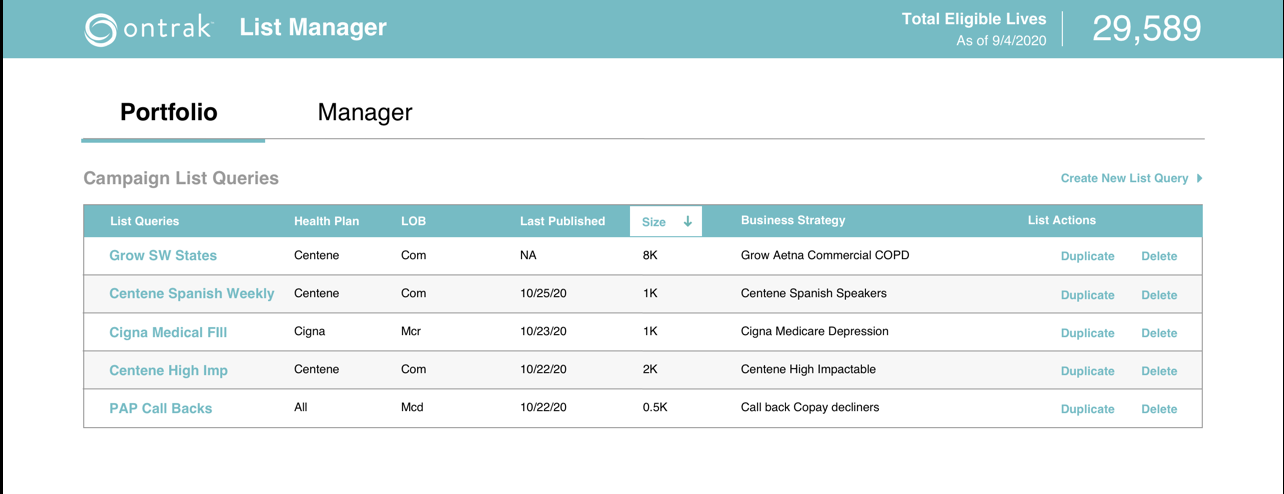
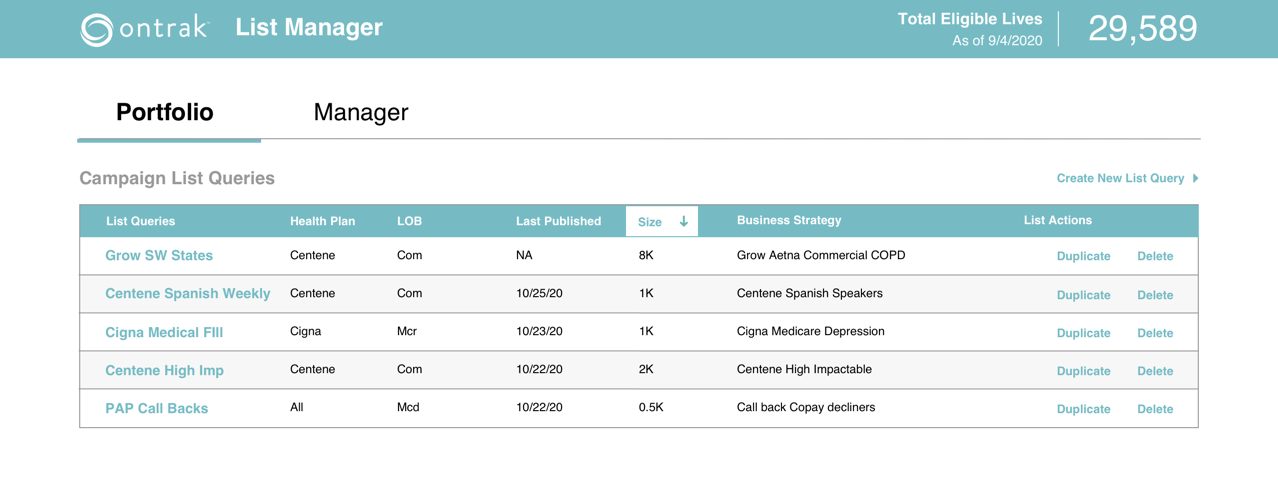
Ontrak full rebuild (GE Digital info architecture) + multi-image hero support
- Ontrak one-pager rebuilt: hero headline now a genuine hook distinct from
  both the landing card and the body copy, scene-setter fixes the List
  Manager/Care Team Portal timeline (no tool existed yet, just manual
  spreadsheets; Care Team Portal was the actual assignment, List Manager
  grew alongside it as a side project), "Align, Build, Trust" section with
  three body paragraphs and three labeled outcomes (ADOPTION, REACH,
  INVESTMENT), telehealth portal beat dropped from this page
- OnePager: heroImage now accepts a single image or an array; all hero
  images render at a fixed height with natural (uncropped) width instead
  of a forced 16:9 crop
- GE Digital: swapped in workshop-wide.png (same height, wider than 16:9,
  no crop)
- Ontrak: swapped in re-cropped Value Stream Map / LM Portfolio images,
  added Ontrak Detail as a second hero image alongside Ontrak Sketch

diff --git a/work/ontrak/main.tsx b/work/ontrak/main.tsx
@@ -4,36 +4,50 @@ import '../../src/index.css'
 import { OnePager, type OnePagerContent } from '../../src/components/OnePager'
 
 // Ontrak Health one-pager content. Source facts: Team Inbox/
-// Milmoe_WorkSample_Ontrak-Health.md. Consolidated to a single skim-to-contact
-// section per the 2026-08-01 rework: List Manager as the lead hook point, the
-// telehealth portal folded in as a third, supporting hook point rather than
-// its own section. Full original two-section copy is archived in
-// Andrew Outbox/WorkSample_Ontrak-Health_full-text.txt.
+// Milmoe_WorkSample_Ontrak-Health.md. Rebuilt 2026-08-06 to match GE
+// Digital's information architecture: hero headline distinct from the
+// landing card hook, scene-setter sharing the first section's background
+// (sceneSetterPlacement: 'section') rather than its own row, one "THE WORK"
+// section, three labeled proofPoints. The HIPAA telehealth portal beat is
+// dropped from this page per Andrew's call — it stays fully documented in
+// the working doc for later reuse, just not part of this narrative anymore.
 //
 // Public-facing name is "List Manager" only (2026-08-06, Andrew) — the tool's
 // original pre-rename name, Campaign Builder, stays in the working doc as
 // history but should never appear on the live site.
+//
+// The Care Team Portal is named in the scene-setter (2026-08-06, Andrew) as
+// the reason he was actually brought on — List Manager grew alongside it as
+// a side project. This reopens the earlier 2026-07-30 call to hold Care
+// Team Portal out of this page entirely; it's still just a passing mention
+// here, not a developed section — the working doc has the full initiative.
 const content: OnePagerContent = {
   industry: 'HEALTHCARE',
   client: 'Ontrak Health',
   role: 'Principal UX Product Designer',
   headline:
-    "Ontrak's Member Outreach team was stuck waiting on an overloaded AI/ML team for every customer query. I designed the MVP that fixed it, a tool the AI/ML team later adopted to run its own campaigns.",
+    "Ontrak's growth was hampered by opaque, manual processes splintered across siloed teams. Called in to diagram it, sparking the tool that ended up running the business.",
   sceneSetter:
-    "Ontrak's Member Outreach team was stuck waiting on an overloaded AI/ML team for every data query, and every delay cost conversions. Asked to work directly with the CTO to design a fix.",
-  heroImage: `${import.meta.env.BASE_URL}ontrak-sketch.png`,
+    "List Manager didn't exist yet, just manual spreadsheets bridging claims data to outreach campaigns, with no shared way for AI/ML, Outreach, and Clinical to see the process end to end. Brought in to align stakeholders on the Care Team Portal, and List Manager grew alongside it as a side project to close that gap.",
+  sceneSetterEmphasis: 'List Manager',
+  sceneSetterPlacement: 'section',
+  heroImage: [
+    `${import.meta.env.BASE_URL}ontrak-sketch.png`,
+    `${import.meta.env.BASE_URL}ontrak-detail.png`,
+  ],
   sections: [
     {
       eyebrow: 'THE WORK',
-      title: 'List Manager',
+      title: 'Align, Build, Trust',
       body: [
-        'Worked directly with the CTO and a two-person eng team, in spare time over about a year, to ship a lean MVP from existing components, ready for an upcoming client sales call.',
-        'Stakeholder feedback reshaped it into "List Manager," trading a map view for system responsiveness once real usage patterns emerged.',
-        'Separately, when I joined the company, we paused the design system to ship a HIPAA-compliant, white-labeled telehealth portal in 60 days, under investor pressure, as competitors were already live.',
+        'Served as liaison between the AI/ML and Clinical teams, sketching the claims-to-campaign process on a whiteboard and turning it into a shared diagram the CTO liked enough to ask him to share with the entire organization.',
+        'Over about a year of spare time, on a team of one designer and two engineers, that same clarity became List Manager, a lean MVP built from existing components and shipped in time for a client sales call.',
+        "The CTO's new Operational Data & Analytics team produced data too complex for stakeholders to use. Combined it with the original diagram to build an executive dashboard, giving leadership a shared way to forecast staffing and spot bottlenecks.",
       ],
       proofPoints: [
-        'List Manager adopted by the AI/ML team itself to run its own campaigns',
-        'Won PM and Visual Design resources to keep it going',
+        { label: 'ADOPTION', value: 'List Manager adopted by the AI/ML team itself to run its own campaigns' },
+        { label: 'REACH', value: "The diagram behind it was shared company-wide at the CTO's request" },
+        { label: 'INVESTMENT', value: 'Won dedicated PM and Visual Design resources to keep it going' },
       ],
       imageCount: 3,
       images: [

diff --git a/src/components/OnePager.tsx b/src/components/OnePager.tsx
@@ -71,10 +71,12 @@ export type OnePagerContent = {
    *  copy, so context/body/proofPoints all share one background band
    *  instead of alternating per micro-section — GE Digital's pattern. */
   sceneSetterPlacement?: 'row' | 'section'
-  /** Secondary supporting image shown in the hero, alongside the headline.
+  /** Secondary supporting image(s) shown in the hero, below the headline.
    *  Sized deliberately small/secondary — the headline stays the hero's
-   *  primary content. */
-  heroImage?: string
+   *  primary content. Pass an array to show more than one, side by side.
+   *  All render at a fixed height with natural (uncropped) width — a wide
+   *  image simply renders wider, a tall one narrower, never cropped. */
+  heroImage?: string | string[]
   sections: SectionContent[]
 }
 
@@ -161,6 +163,7 @@ export function OnePager({ content }: { content: OnePagerContent }) {
     heroImage,
     sections,
   } = content
+  const heroImages = heroImage ? (Array.isArray(heroImage) ? heroImage : [heroImage]) : []
   // Row order: hero(0), scene-setter(1) — only when it renders as its own
   // row — then one entry per section, then the CTA — alternation continues
   // straight through so weight reads consistently no matter how many rows a
@@ -214,15 +217,13 @@ export function OnePager({ content }: { content: OnePagerContent }) {
           </div>
         </div>
 
-        {heroImage && (
+        {heroImages.length > 0 && (
           <div className={`grid grid-cols-1 ${RAIL_GRID} gap-8 items-start mt-8 md:mt-10`}>
             <div className="hidden md:block" />
-            <div className="md:col-span-2">
-              <img
-                src={heroImage}
-                alt=""
-                className="w-full max-w-sm aspect-video object-cover rounded-sm"
-              />
+            <div className="md:col-span-2 flex flex-wrap gap-4">
+              {heroImages.map((src) => (
+                <img key={src} src={src} alt="" className="h-[216px] w-auto max-w-full rounded-sm" />
+              ))}
             </div>
           </div>
         )}

diff --git a/work/ge-digital/main.tsx b/work/ge-digital/main.tsx
@@ -22,7 +22,7 @@ const content: OnePagerContent = {
     "GE Power Conversion's Visor Service Portal, a pilot built by two hardware engineers, was failing badly enough that customers were unplugging it. Selected as UX lead to find out why and turn it around, with the business's highest-profile software bet riding on it.",
   sceneSetterEmphasis: "GE Power Conversion's Visor Service Portal",
   sceneSetterPlacement: 'section',
-  heroImage: `${import.meta.env.BASE_URL}workshop.png`,
+  heroImage: `${import.meta.env.BASE_URL}workshop-wide.png`,
   sections: [
     {
       eyebrow: 'THE WORK',
